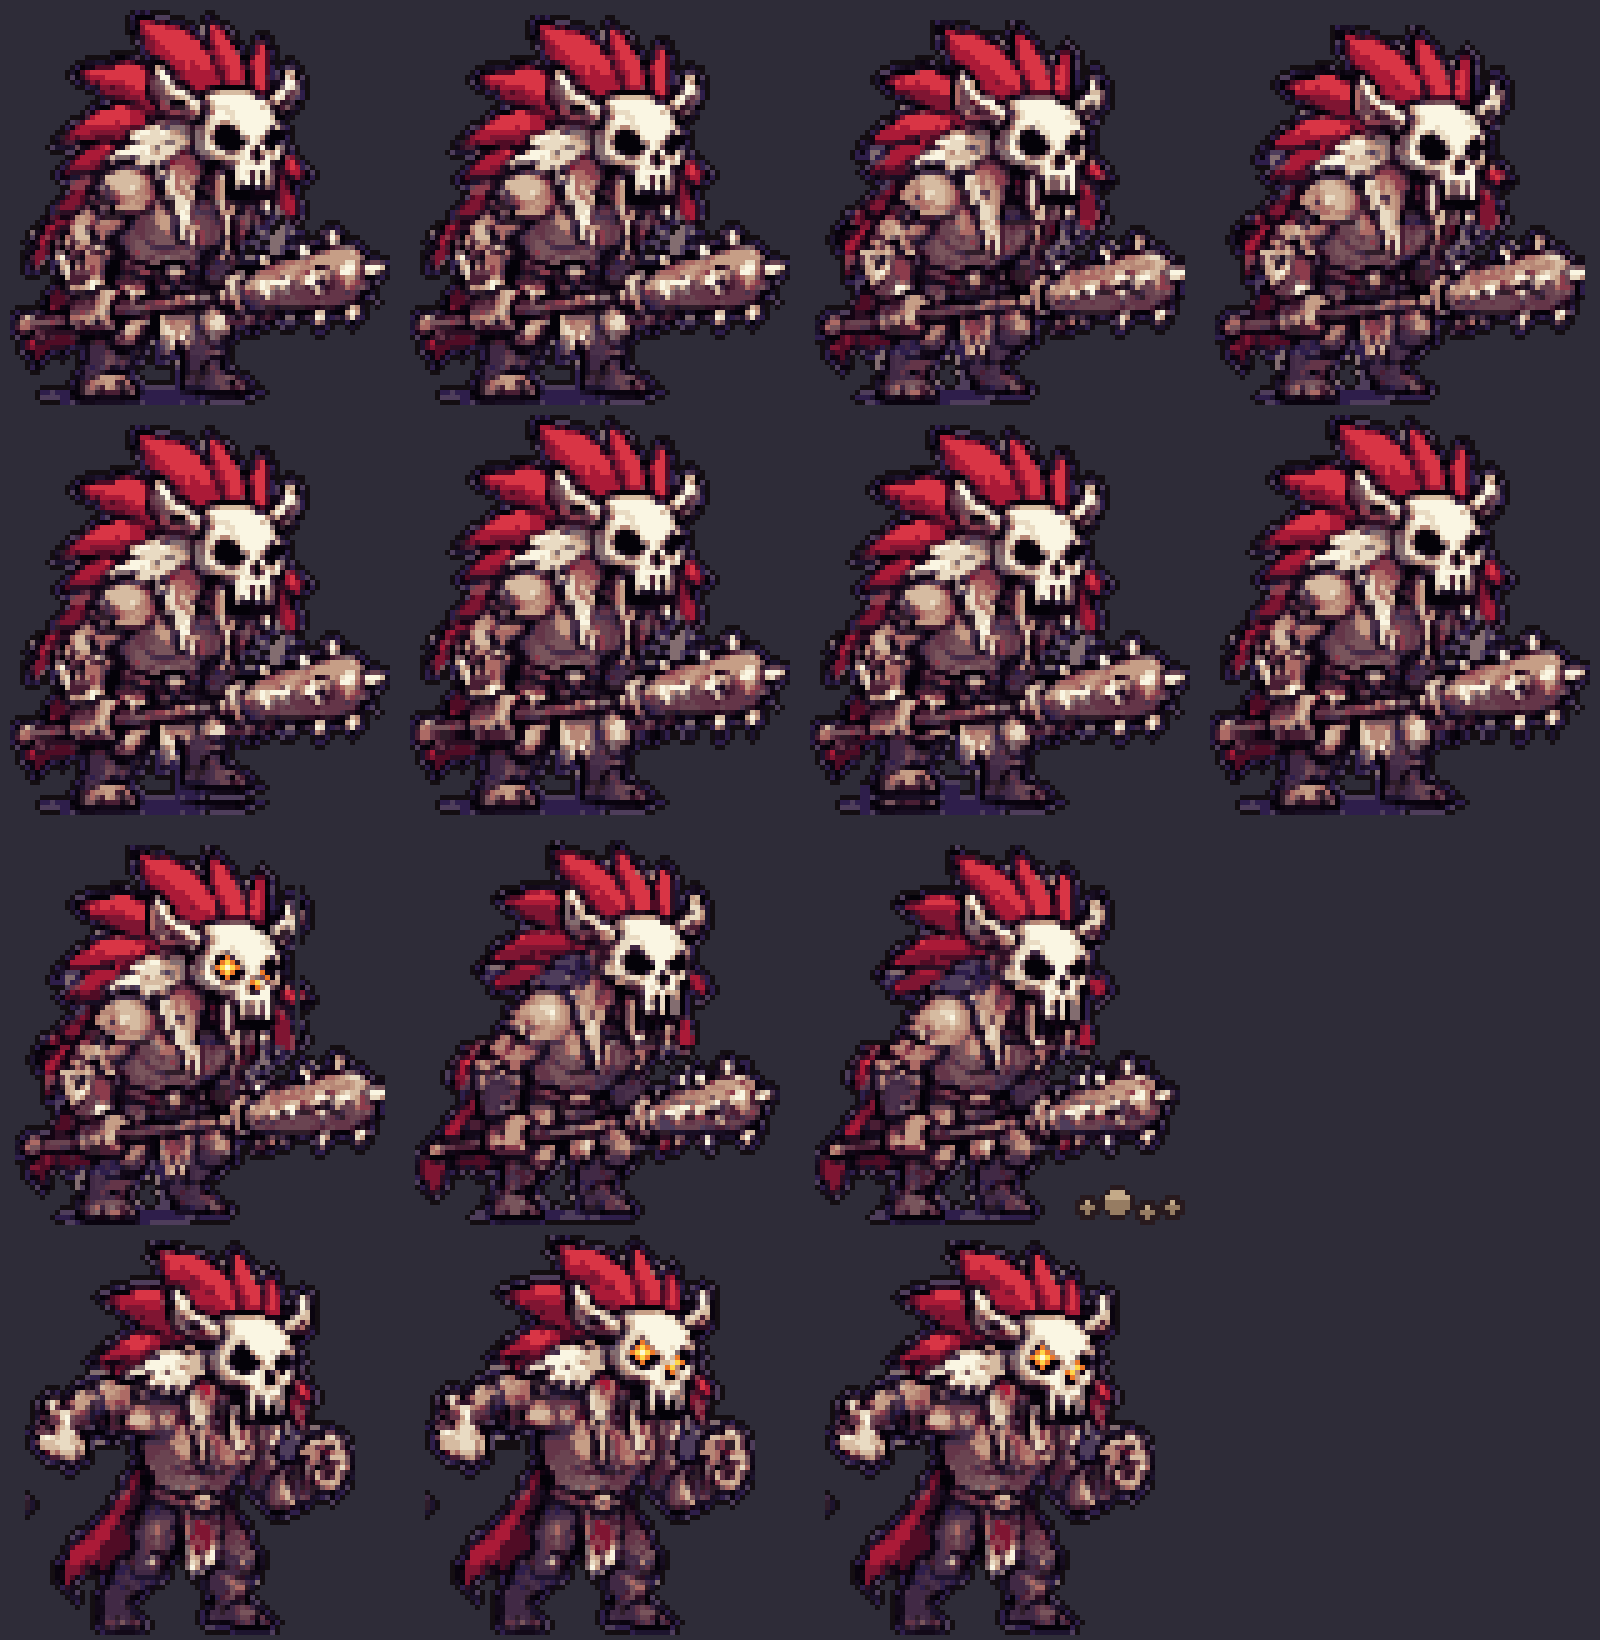
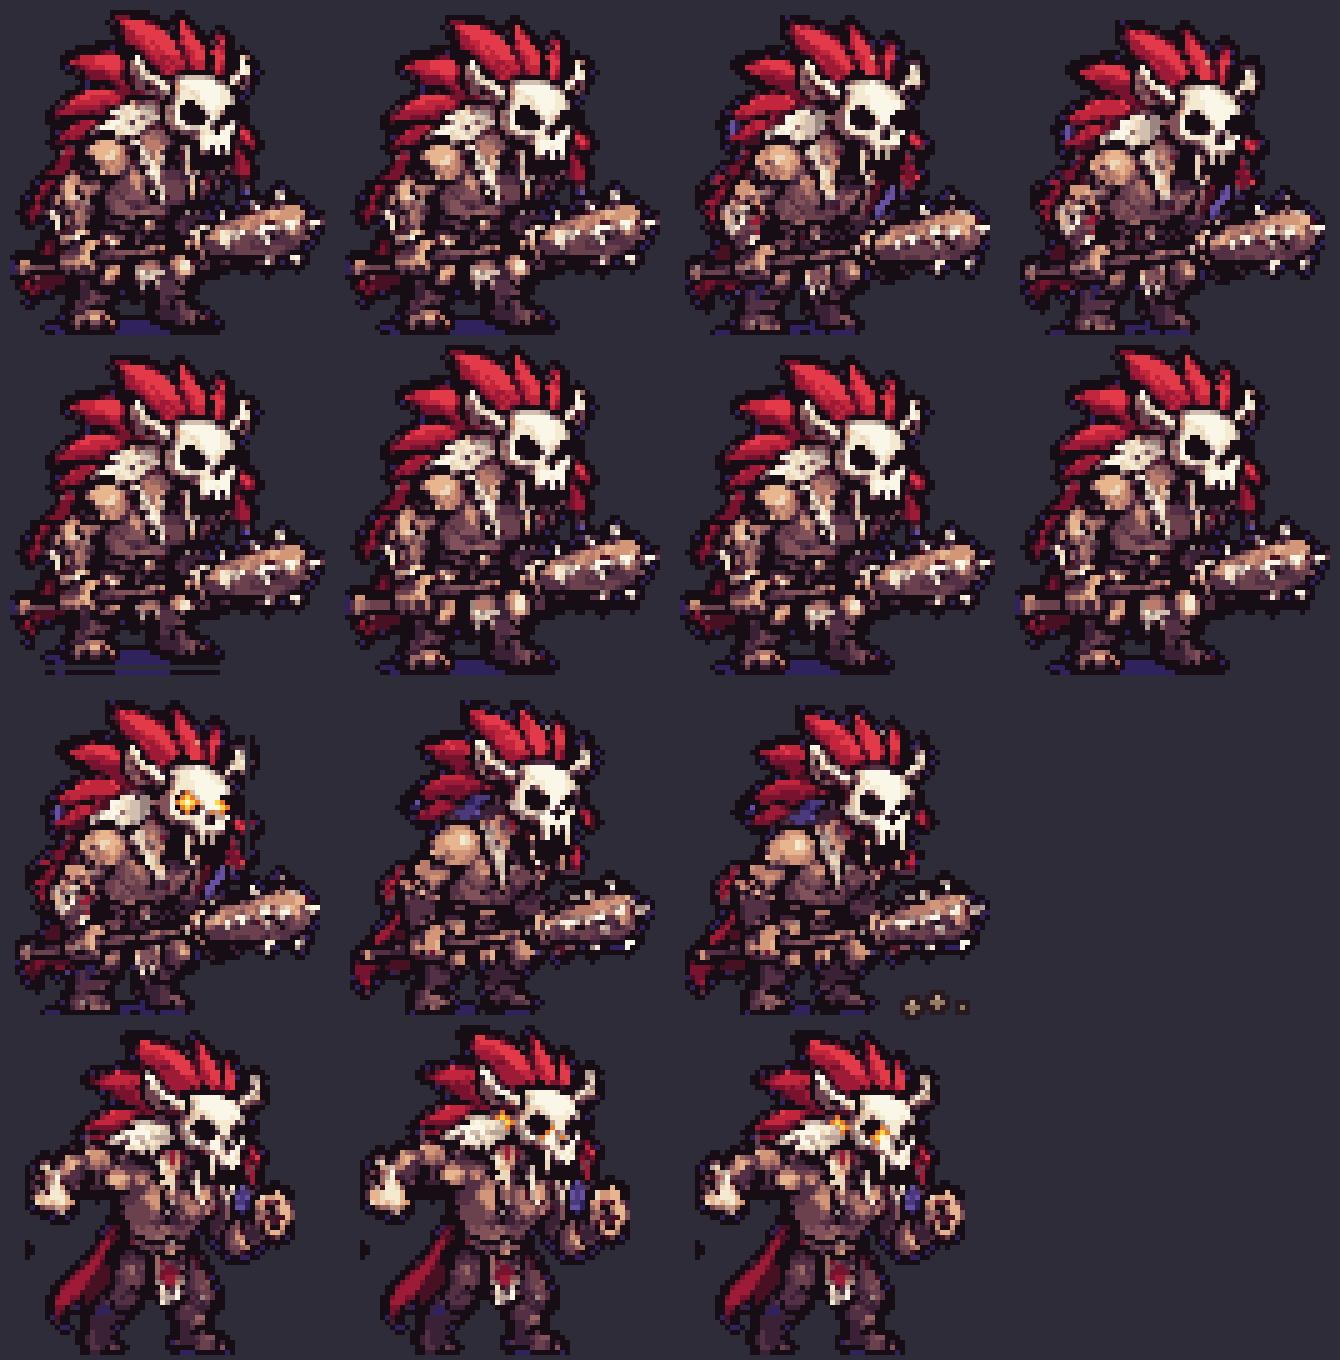
보스 그림 도트 다시 따기: AI 그림은 한 점이 약 2px인 번진 그림이라 섞어 줄이면(0.6배) 뭉개졌다 — 2×2 칸마다 칸 경계를 그림에 맞춰 실제 있는 대표색 하나를 골라 1:1 도트로, 보스마다 24색 한 판, 튀는 잡티는 둘레 색으로, 가장자리 배경빛 보라 번짐 · 발밑 배경 그림자 지우기, 짙은 색은 외곽선 색으로 · 1px 외곽선. 가면 족장 13장면도 새 도트에 맞춰 다시 (눈 · 발 자리는 그림에서 찾는다)
Claude-Session: https://claude.ai/code/session_01BGWizNepEyNmsyyJkBW7hP

Changed region(s): [[0.0, 0.0, 1.0, 1.0]]

diff --git a/tools/cut_bosses.py b/tools/cut_bosses.py
@@ -89,6 +89,70 @@ POSES = {
 LORDS = ['mossLord', 'climbQueen', 'climbRift', 'climbWitch', 'shardQueen', 'clockKeeper', 'clockKeeper2', 'starReader']
 SCALE = {**{k: 0.66 for k in LORDS}, 'engraveKing': 0.72, 'lastKing': 0.72, 'skyWhale': 0.7}
 
+# ───── 도트 따기: AI 그림은 한 점이 약 2px인 번진 그림이라, 섞어서 줄이지 않고 2×2 칸마다 대표색 하나를 고른다 ─────
+OUTL = (22, 14, 20, 255)
+def pixelize(fr, k=2):
+    a = np.array(fr).astype(int); H, W, _ = a.shape
+    best = None
+    for oy in range(k):  # 칸 경계가 그림의 점 경계와 가장 잘 맞는 자리 (칸 안 색 차이가 가장 작은 곳)
+        for ox in range(k):
+            b = a[oy:oy + (H - oy) // k * k, ox:ox + (W - ox) // k * k]
+            blk = b.reshape(b.shape[0] // k, k, b.shape[1] // k, k, 4).transpose(0, 2, 1, 3, 4).reshape(b.shape[0] // k, b.shape[1] // k, k * k, 4)
+            var = blk[..., :3].std(2).sum()
+            if best is None or var < best[0]: best = (var, blk)
+    blk = best[1]
+    # 대표색: 칸 안에서 다른 칸들과 가장 가까운 색 (평균이 아니라 실제 있는 색 하나 · 경계 번짐을 버린다)
+    rgb = blk[..., :3]; al = blk[..., 3]
+    d = np.abs(rgb[:, :, :, None, :] - rgb[:, :, None, :, :]).sum(-1).sum(-1)
+    pick = d.argmin(2)
+    out = np.take_along_axis(rgb, pick[:, :, None, None].repeat(3, 3), 2)[:, :, 0]
+    alpha = (al > 127).sum(2) >= (k * k + 1) // 2
+    img = np.dstack([out, np.where(alpha, 255, 0)]).astype(np.uint8)
+    return Image.fromarray(img, 'RGBA')
+
+def palette_all(frames, n):
+    tot = [p for f in frames for p in np.array(f).reshape(-1, 4) if p[3]]
+    strip = Image.fromarray(np.array(tot, np.uint8)[None, :, :3], 'RGB')
+    pal = strip.quantize(colors=n, method=Image.Quantize.MAXCOVERAGE, kmeans=4, dither=Image.Dither.NONE)
+    out = []
+    for f in frames:
+        q = np.array(f.convert('RGB').quantize(palette=pal, dither=Image.Dither.NONE).convert('RGB')); al = np.array(f)[:, :, 3]
+        out.append(Image.fromarray(np.dstack([q, al]).astype(np.uint8), 'RGBA'))
+    return out
+
+def clean(f):
+    # 잡티: 여덟 이웃 누구와도 같지 않고 이웃 대부분이 한 색이면 그 색으로 · 떨어진 점 지우기 · 짙은 색은 외곽선 색으로 · 1px 외곽선
+    a = np.array(f).astype(int); H, W, _ = a.shape; o = a.copy()
+    for y in range(1, H - 1):
+        for x in range(1, W - 1):
+            if not a[y, x, 3]: continue
+            nb = [tuple(a[y + dy, x + dx]) for dy in (-1, 0, 1) for dx in (-1, 0, 1) if (dx or dy)]
+            me = tuple(a[y, x])
+            if me in nb: continue
+            from collections import Counter
+            c, n = Counter(nb).most_common(1)[0]
+            if n >= 5: o[y, x] = c
+    al = o[:, :, 3] > 0
+    for y in range(H):
+        for x in range(W):
+            if al[y, x] and sum(al[yy, xx] for yy, xx in ((y - 1, x), (y + 1, x), (y, x - 1), (y, x + 1)) if 0 <= yy < H and 0 <= xx < W) == 0: o[y, x, 3] = 0
+    # 가장자리에 남은 원본 배경색 번짐 (투명한 칸에 닿은 배경빛 보라 칸) — 두 번
+    for _ in range(2):
+        al = o[:, :, 3] > 0
+        edge = al & ~(np.roll(al, 1, 0) & np.roll(al, -1, 0) & np.roll(al, 1, 1) & np.roll(al, -1, 1))
+        near = np.minimum(np.abs(o[:, :, :3] - np.array([100, 77, 168])).sum(2), np.abs(o[:, :, :3] - np.array([72, 54, 128])).sum(2)) < 48
+        o[edge & near, 3] = 0
+    # 발밑에 남은 원본 배경의 보랏빛 그림자 (아래 다섯 줄)
+    bgsh = np.abs(o[:, :, :3] - np.array([72, 54, 128])).sum(2) < 60
+    bgsh[: max(0, H - 5)] = False; o[bgsh & (o[:, :, 3] > 0), 3] = 0
+    dark = (o[:, :, :3].sum(2) < 95) & (o[:, :, 3] > 0); o[dark] = OUTL
+    al = o[:, :, 3] > 0; out = o.copy()
+    for y in range(H):
+        for x in range(W):
+            if al[y, x]: continue
+            if any(0 <= yy < H and 0 <= xx < W and al[yy, xx] for yy, xx in ((y - 1, x), (y + 1, x), (y, x - 1), (y, x + 1))): out[y, x] = OUTL
+    return Image.fromarray(out.astype(np.uint8), 'RGBA')
+
 def anchor(fr):
     a = np.array(fr)[:, :, 3] > 0
     ys, xs = np.nonzero(a)
@@ -105,13 +169,8 @@ def build():
     for boss, frs in res.items():
         frames = [f for f, _ in frs]
         sc = SCALE.get(boss, 0.6)
-        small = []
-        for f in frames:
-            bb = f.getbbox(); f = f.crop(bb)
-            s = fit_frame(f, sc)
-            small.append(s)
-        small = quantize_sheet(small, 28)
-        small = [outline(s) for s in small]
+        small = [pixelize(f.crop(f.getbbox())) for f in frames]  # 원본의 점 하나 = 게임 픽셀 하나
+        small = [clean(s) for s in palette_all(small, 24)]
         anc = [anchor(s) for s in small]
         L = max(ax for ax, _ in anc) + 2; R = max(s.width - ax for s, (ax, _) in zip(small, anc)) + 2
         T = max(ay for _, ay in anc) + 2
